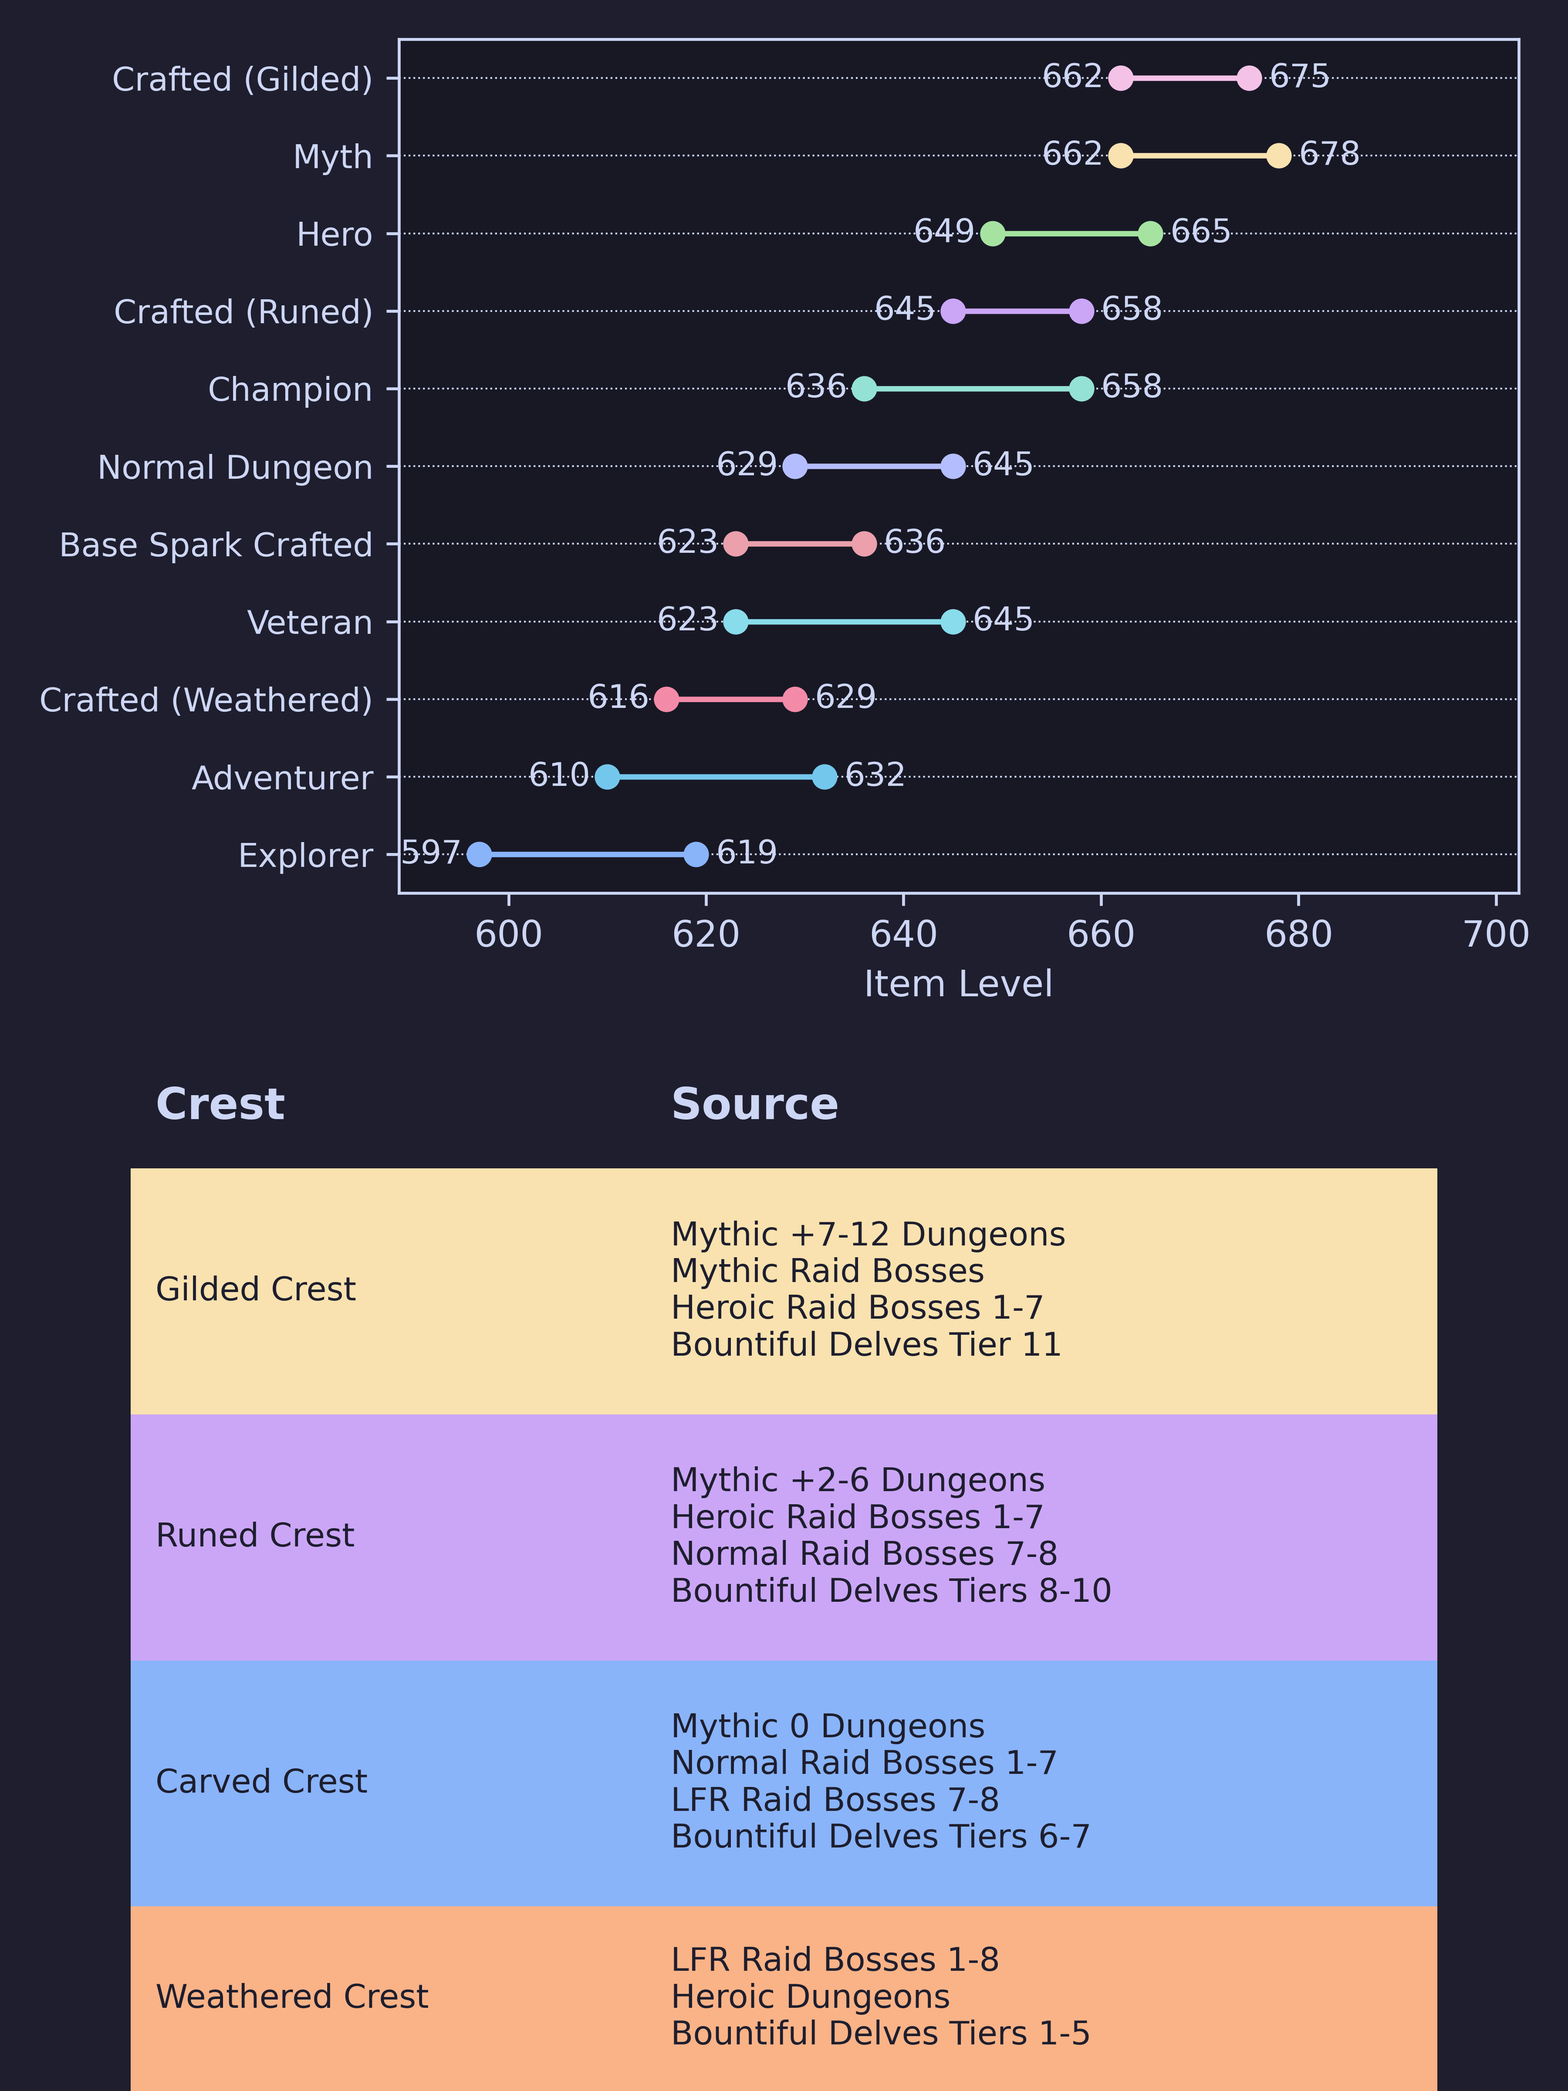
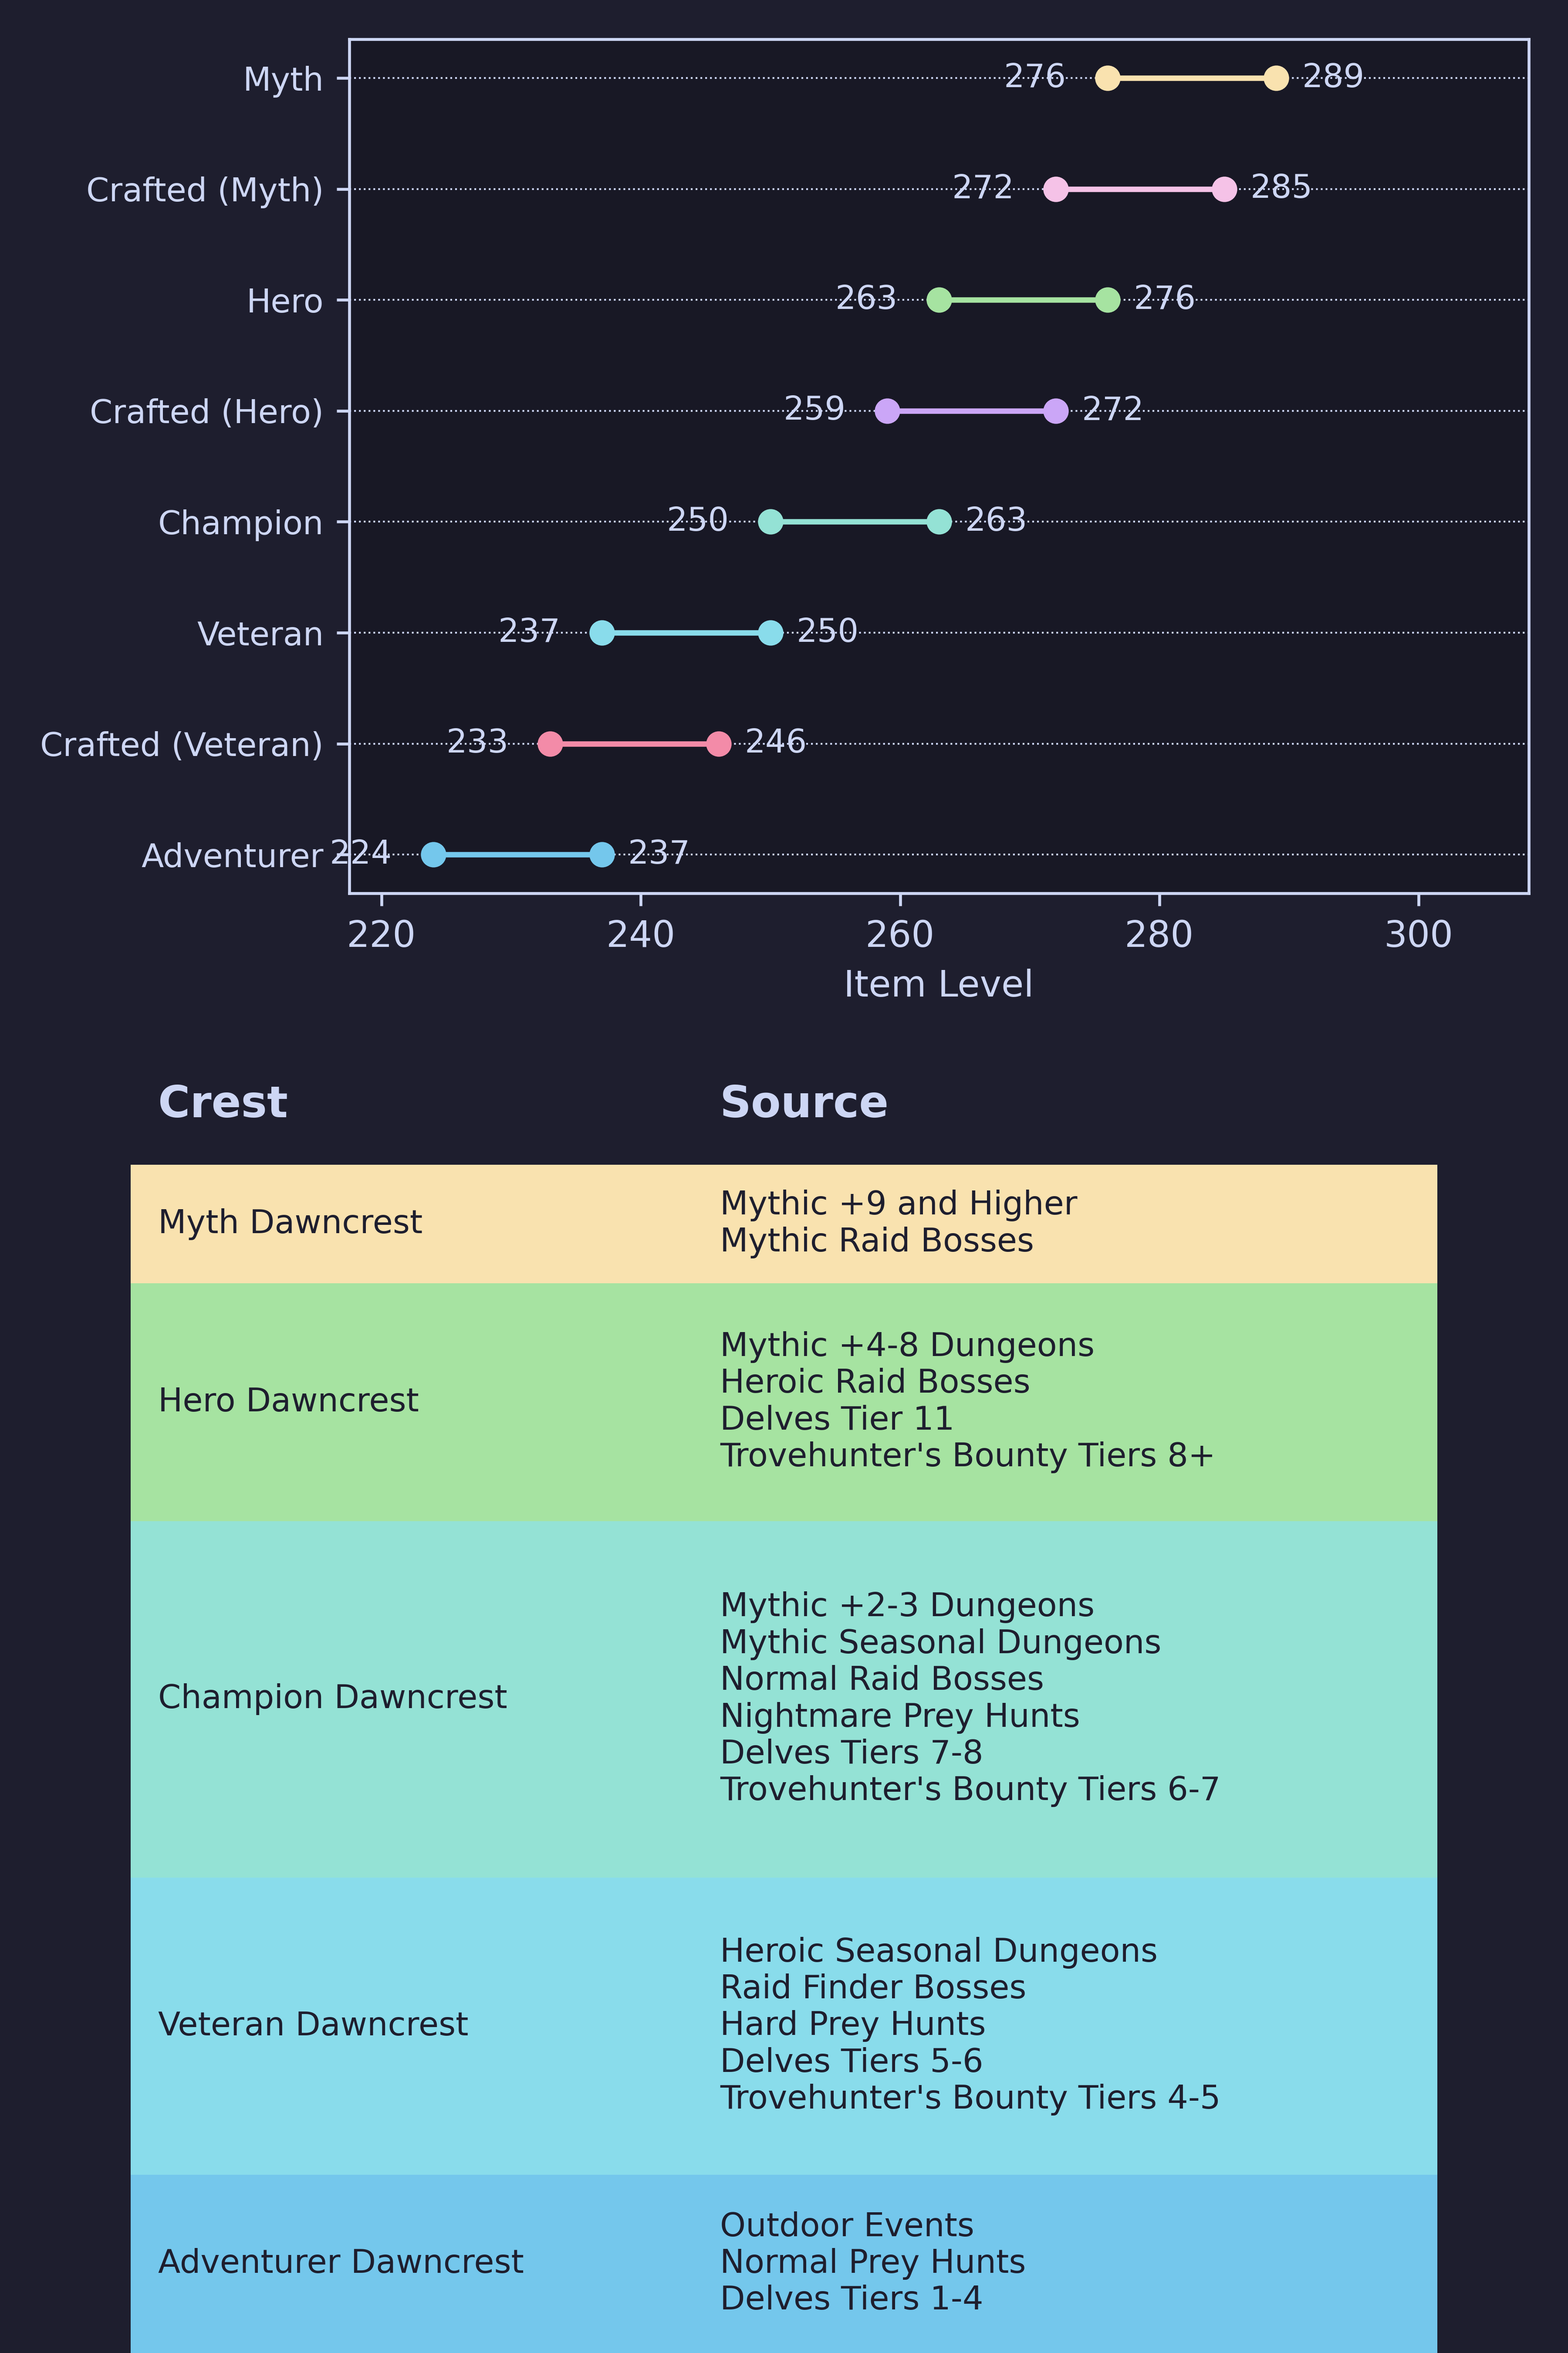
Update gear progression data for WoW Midnight Season 1
Replace The War Within Season 1 data with Midnight Season 1:
- New item level ranges (224-289 instead of 597-678)
- Dawncrests replace old crest system (Adventurer/Veteran/Champion/Hero/Myth)
- Remove Explorer and Normal Dungeon tracks
- Update gear sources with Midnight content (Prey Hunts, Trovehunter's Bounty, Delves)
- Update crafted gear to use Dawncrest tiers
- Regenerate all report images

https://claude.ai/code/session_01Xjb9YAoxP2RdR5RvhzsXMH

diff --git a/gear_prog/data.py b/gear_prog/data.py
@@ -28,122 +28,125 @@ colors = {
 }
 
 custom_track_colors = {
-    'Normal Dungeon': colors['Lavender'],
-    'Explorer': colors['Blue'],
     'Adventurer': colors['Sapphire'],
     'Veteran': colors['Sky'],
     'Champion': colors['Teal'],
     'Hero': colors['Green'],
     'Myth': colors['Yellow'],
-    'Base Spark Crafted': colors['Maroon'],
-    'Crafted (Weathered)': colors['Red'],
-    'Crafted (Runed)': colors['Mauve'],
-    'Crafted (Gilded)': colors['Pink']
+    'Crafted (Veteran)': colors['Red'],
+    'Crafted (Hero)': colors['Mauve'],
+    'Crafted (Myth)': colors['Pink']
 }
 
 gear_score_data = {
-    'Normal Dungeon': {'Starting Item Level': 629, 'Max Item Level': 645}, 
-    'Explorer': {'Starting Item Level': 597, 'Max Item Level': 619}, 
-    'Adventurer': {'Starting Item Level': 610, 'Max Item Level': 632}, 
-    'Veteran': {'Starting Item Level': 623, 'Max Item Level': 645}, 
-    'Champion': {'Starting Item Level': 636, 'Max Item Level': 658}, 
-    'Hero': {'Starting Item Level': 649, 'Max Item Level': 665}, 
-    'Myth': {'Starting Item Level': 662, 'Max Item Level': 678}, 
-    'Base Spark Crafted': {'Starting Item Level': 623, 'Max Item Level': 636}, 
-    'Crafted (Weathered)': {'Starting Item Level': 616, 'Max Item Level': 629}, 
-    'Crafted (Runed)': {'Starting Item Level': 645, 'Max Item Level': 658}, 
-    'Crafted (Gilded)': {'Starting Item Level': 662, 'Max Item Level': 675} 
+    'Adventurer': {'Starting Item Level': 224, 'Max Item Level': 237},
+    'Veteran': {'Starting Item Level': 237, 'Max Item Level': 250},
+    'Champion': {'Starting Item Level': 250, 'Max Item Level': 263},
+    'Hero': {'Starting Item Level': 263, 'Max Item Level': 276},
+    'Myth': {'Starting Item Level': 276, 'Max Item Level': 289},
+    'Crafted (Veteran)': {'Starting Item Level': 233, 'Max Item Level': 246},
+    'Crafted (Hero)': {'Starting Item Level': 259, 'Max Item Level': 272},
+    'Crafted (Myth)': {'Starting Item Level': 272, 'Max Item Level': 285},
 }
 
 gear_source_data = {
     "Myth": {
-        "Source": ["Mythic Raid", "Mythic +8-12 Dungeons", "Mythic Great Vault"],
-        "Required Crest": "Gilded Crest",
+        "Source": [
+            "Mythic Raid",
+            "Mythic +9 and Higher",
+            "Mythic Great Vault",
+        ],
+        "Required Crest": "Myth Dawncrest",
     },
     "Hero": {
         "Source": [
             "Heroic Raid",
-            "Mythic +5-7 Dungeons",
+            "Mythic +4-8 Dungeons",
             "Heroic Great Vault",
-            "Very Rare Dungeon Drops"
+            "Delves Tier 11",
         ],
-        "Required Crest": "Runed Crest\nGilded Crest",
+        "Required Crest": "Hero Dawncrest",
     },
     "Champion": {
         "Source": [
             "Normal Raid",
-            "Mythic +2-4 Dungeons",
-            "Normal Great Vault",
-            "Mythic Dungeons",
+            "Mythic +2-3 Dungeons",
+            "Mythic Seasonal Dungeons",
+            "Nightmare Prey Hunts",
+            "Delves Tiers 7-8",
         ],
-        "Required Crest": "Carved Crest\nRuned Crest",
+        "Required Crest": "Champion Dawncrest",
     },
     "Veteran": {
         "Source": [
-            "LFR Raid",
-            "Heroic Dungeons",
-            "Weathered Crest Drops",
+            "Raid Finder",
+            "Heroic Seasonal Dungeons",
+            "Hard Prey Hunts",
+            "Delves Tiers 5-6",
         ],
-        "Required Crest": "Weathered Crest\nCarved Crest",
+        "Required Crest": "Veteran Dawncrest",
     },
     "Adventurer": {
         "Source": [
-            "Delve Tiers 1-4",
-            "Explorer Track 5-8"
+            "Outdoor Events",
+            "Normal Prey Hunts",
+            "Delves Tiers 1-4",
         ],
-        "Required Crest": "Weathered Crest",
+        "Required Crest": "Adventurer Dawncrest",
     },
-    "Explorer": {
-        "Source": [
-            "Delve Tiers 1-4",
-            "Explorer Track 1-4"
-        ],
-        "Required Crest": "Weathered Crest",
+    "Crafted (Veteran)": {
+        "Source": ["Spark of Radiance + Veteran Dawncrest"],
+        "Required Crest": "Veteran Dawncrest",
     },
-    "Crafted (Runed)": {
-        "Source": ["Enchanted Runed"],
-        "Required Crest": "Runed Crest",
+    "Crafted (Hero)": {
+        "Source": ["Spark of Radiance + Hero Dawncrest"],
+        "Required Crest": "Hero Dawncrest",
     },
-    "Crafted (Weathered)": {
-        "Source": ["Enchanted Weathered"],
-        "Required Crest": "Weathered Crest",
-    },
-    "Crafted (Gilded)": {
-        "Source": ["Enchanted Gilded"],
-        "Required Crest": "Gilded Crest",
+    "Crafted (Myth)": {
+        "Source": ["Spark of Radiance + Myth Dawncrest"],
+        "Required Crest": "Myth Dawncrest",
     },
 }
 
 crest_source_data = {
-    "Gilded Crest": {
+    "Myth Dawncrest": {
         "Source": [
-            "Mythic +7-12 Dungeons",
+            "Mythic +9 and Higher",
             "Mythic Raid Bosses",
-            "Heroic Raid Bosses 1-7",
-            "Bountiful Delves Tier 11"
         ]
     },
-    "Runed Crest": {
+    "Hero Dawncrest": {
         "Source": [
-            "Mythic +2-6 Dungeons",
-            "Heroic Raid Bosses 1-7",
-            "Normal Raid Bosses 7-8",
-            "Bountiful Delves Tiers 8-10"
+            "Mythic +4-8 Dungeons",
+            "Heroic Raid Bosses",
+            "Delves Tier 11",
+            "Trovehunter's Bounty Tiers 8+",
         ]
     },
-    "Carved Crest": {
+    "Champion Dawncrest": {
         "Source": [
-            "Mythic 0 Dungeons",
-            "Normal Raid Bosses 1-7",
-            "LFR Raid Bosses 7-8",
-            "Bountiful Delves Tiers 6-7"
+            "Mythic +2-3 Dungeons",
+            "Mythic Seasonal Dungeons",
+            "Normal Raid Bosses",
+            "Nightmare Prey Hunts",
+            "Delves Tiers 7-8",
+            "Trovehunter's Bounty Tiers 6-7",
         ]
     },
-    "Weathered Crest": {
+    "Veteran Dawncrest": {
         "Source": [
-            "LFR Raid Bosses 1-8",
-            "Heroic Dungeons",
-            "Bountiful Delves Tiers 1-5"
+            "Heroic Seasonal Dungeons",
+            "Raid Finder Bosses",
+            "Hard Prey Hunts",
+            "Delves Tiers 5-6",
+            "Trovehunter's Bounty Tiers 4-5",
         ]
-    }
+    },
+    "Adventurer Dawncrest": {
+        "Source": [
+            "Outdoor Events",
+            "Normal Prey Hunts",
+            "Delves Tiers 1-4",
+        ]
+    },
 }

diff --git a/gear_prog/crest_source_table.py b/gear_prog/crest_source_table.py
@@ -25,7 +25,7 @@ df = pd.DataFrame(
 )
 
 # Create figure and axis
-fig, ax = plt.subplots(figsize=(5, 4))
+fig, ax = plt.subplots(figsize=(5, 5))
 ax.axis("off")
 
 # Create table with adjusted bounding box to fit the table snugly
@@ -50,10 +50,11 @@ for index, row in df.iterrows():
 
 # Define crest colors
 crest_colors = {
-    "Gilded Crest": colors["Yellow"],
-    "Runed Crest": colors["Mauve"],
-    "Carved Crest": colors["Blue"],
-    "Weathered Crest": colors["Peach"],
+    "Myth Dawncrest": colors["Yellow"],
+    "Hero Dawncrest": colors["Green"],
+    "Champion Dawncrest": colors["Teal"],
+    "Veteran Dawncrest": colors["Sky"],
+    "Adventurer Dawncrest": colors["Sapphire"],
 }
 
 # Set cell properties
